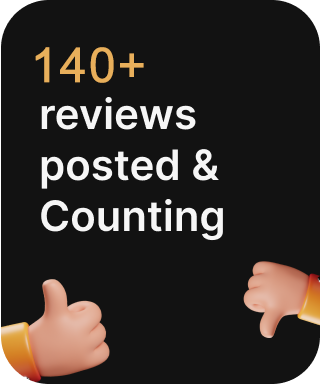
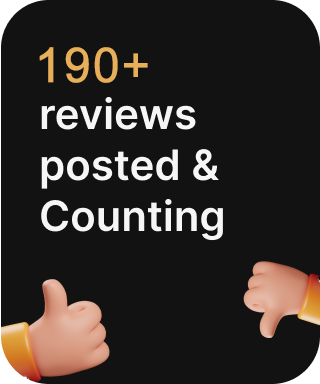
count update

Changed region(s): [[0.0938, 0.125, 0.4688, 0.2188]]

diff --git a/pages/index.jsx b/pages/index.jsx
@@ -115,7 +115,7 @@ export default function Home({ daoList_ssr, leaderboard_ssr }) {
           <div id={'sec2'} className={styles.sec2}>
             <div className={styles.r1} style={{ backgroundColor: "#121212" }} >
               <span>
-                <h3 style={{ color: "#EB6079" }} >480+</h3>
+                <h3 style={{ color: "#EB6079" }} >500+</h3>
                 <p>Communities listed and verified</p>
               </span>
 
@@ -123,7 +123,7 @@ export default function Home({ daoList_ssr, leaderboard_ssr }) {
                 border: "1.25px solid #3f3f3f8d", padding: "0 50px", borderTopColor: "#121212",
                 borderBottomColor: "#121212",
               }} >
-                <h3 style={{ color: "#E1BA9D" }}>140+</h3>
+                <h3 style={{ color: "#E1BA9D" }}>190+</h3>
                 <p>Reviews Posted and Counting</p>
               </span>
 
